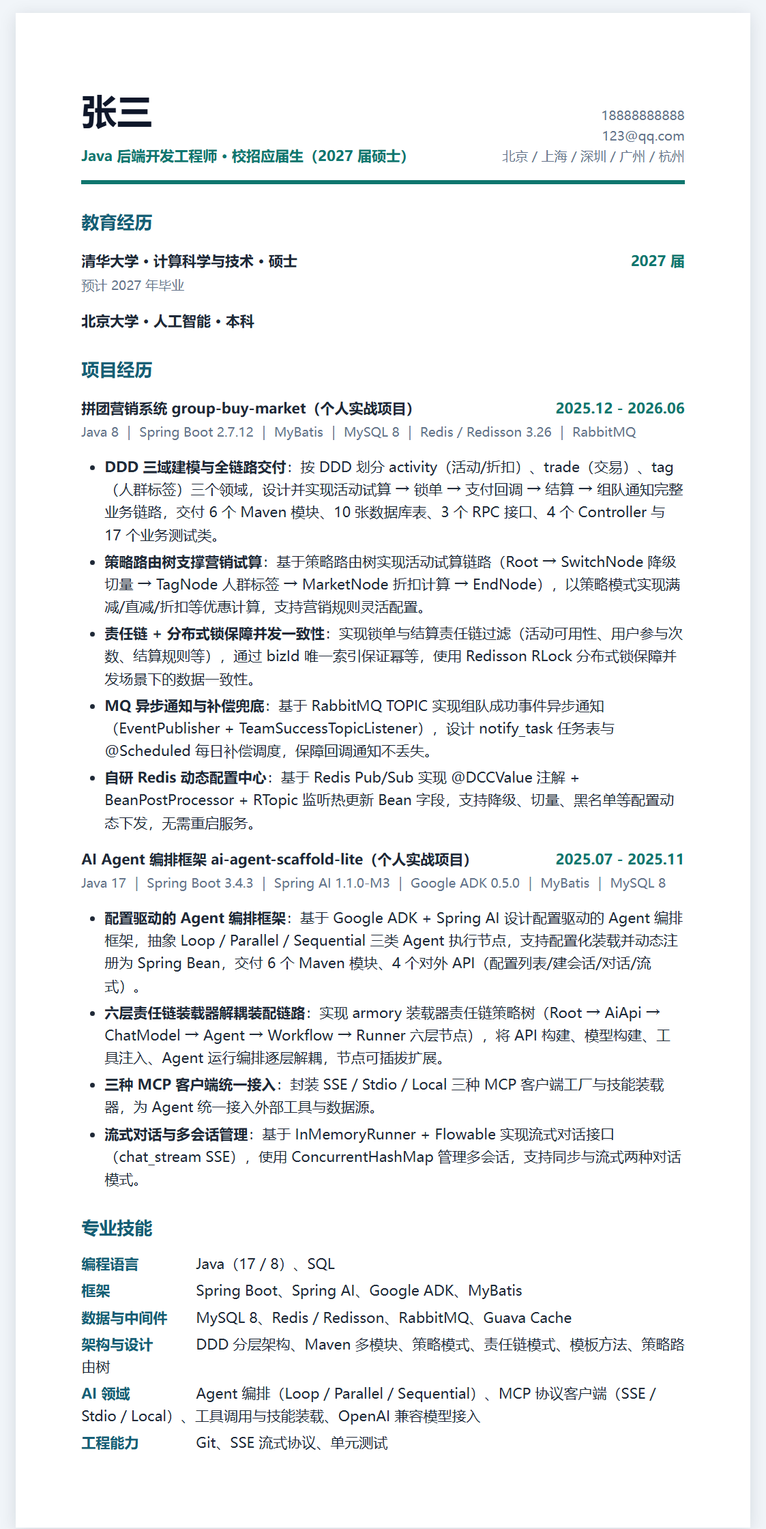
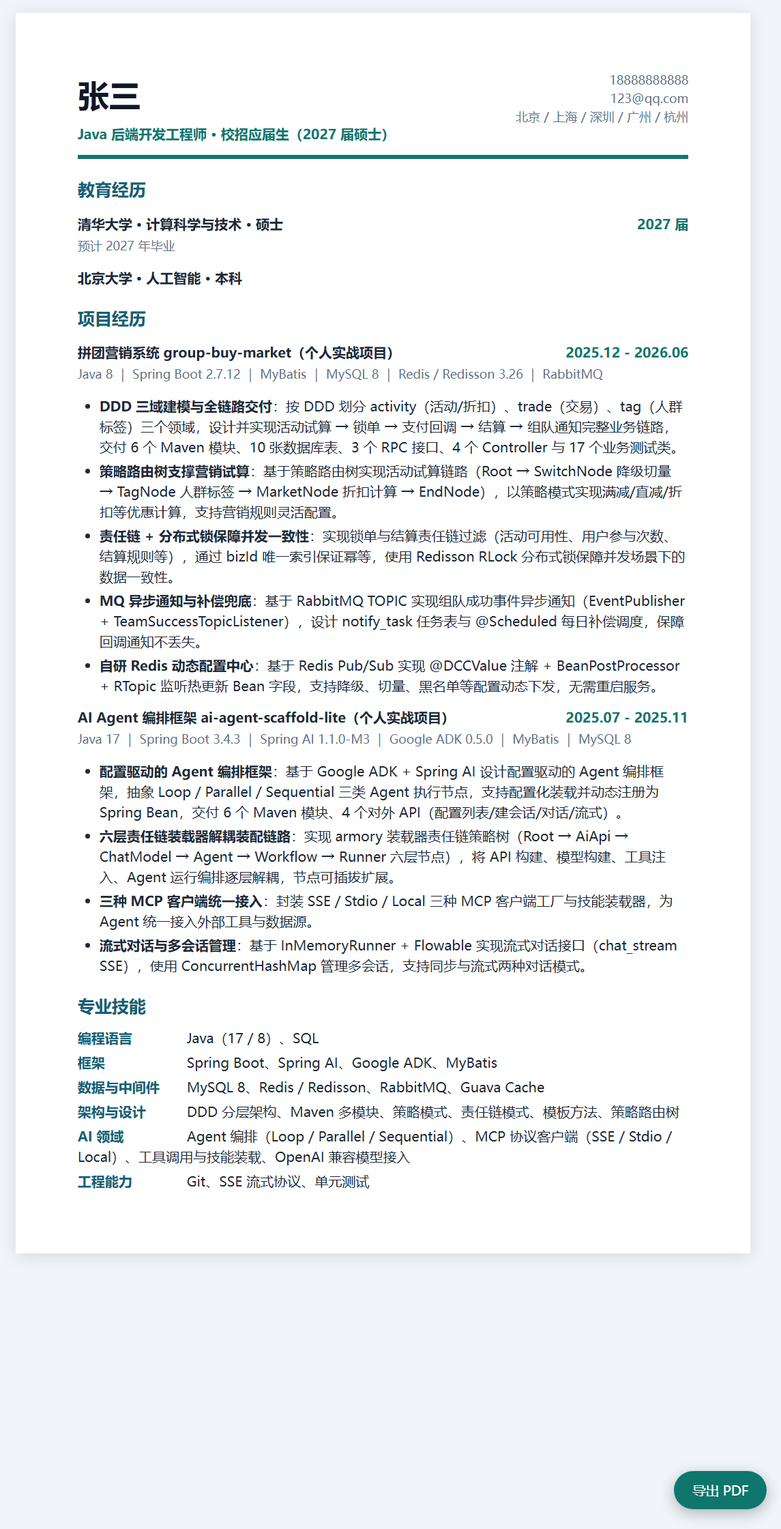
feat: 一键导出 PDF 按钮、页数自动控制与证件照可选流程

diff --git a/examples/demo-java-backend/简历-现代.html b/examples/demo-java-backend/简历-现代.html
@@ -6,19 +6,37 @@
 <title>张三 - Java 后端开发工程师</title>
 <style>
 :root { --ink:#1f2937; --muted:#64748b; --blue:#155e75; --teal:#0f766e; --soft:#f0fdfa; --line:#cbd5e1; }
-* { box-sizing:border-box; } body { margin:0; background:#f1f5f9; color:var(--ink); font:10.5pt/1.58 "Microsoft YaHei","PingFang SC",Arial,sans-serif; }
-.page { max-width:190mm; margin:14pt auto; padding:18mm 17mm; background:#fff; box-shadow:0 2pt 12pt rgba(15,23,42,.12); }
-header { display:flex; justify-content:space-between; gap:18pt; align-items:flex-end; padding:0 0 10pt; border-bottom:3pt solid var(--teal); }
-h1 { margin:0; font-size:26pt; letter-spacing:0; color:#0f172a; }.subtitle { margin:4pt 0 0; color:var(--teal); font-weight:700; }.contact { text-align:right; color:var(--muted); font-size:9.5pt; }
-h2 { margin:17pt 0 8pt; font-size:13pt; color:var(--blue); letter-spacing:0; }.summary { padding:9pt 11pt; background:var(--soft); border-left:3pt solid var(--teal); }.item { margin:10pt 0; break-inside:avoid; }.item-head { display:flex; justify-content:space-between; gap:12pt; font-weight:700; }.date { color:var(--teal); white-space:nowrap; }.stack { margin-top:2pt; color:var(--muted); font-size:9.5pt; }ul { margin:5pt 0; padding-left:17pt; }li { margin:3pt 0; }.skill { margin:3pt 0; }.label { color:var(--blue); font-weight:700; display:inline-block; min-width:84pt; }
-@page { size:A4; margin:14mm 15mm; } @media print { body{background:#fff}.page{margin:0;padding:0;box-shadow:none;max-width:none}.item,h2{break-inside:avoid;page-break-inside:avoid} }
+* { box-sizing:border-box; } body { margin:0; background:#f1f5f9; color:var(--ink); font:10pt/1.5 "Microsoft YaHei","PingFang SC",Arial,sans-serif; }
+.page { max-width:190mm; margin:12pt auto; padding:15mm 16mm; background:#fff; box-shadow:0 2pt 12pt rgba(15,23,42,.12); }
+header { display:flex; justify-content:space-between; gap:16pt; align-items:flex-start; padding:0 0 8pt; border-bottom:3pt solid var(--teal); }
+.head-left h1 { margin:0; font-size:23pt; letter-spacing:0; color:#0f172a; }
+.head-left .subtitle { margin:4pt 0 0; color:var(--teal); font-weight:700; }
+.head-right { display:flex; flex-direction:column; align-items:flex-end; gap:6pt; }
+.photo-img { width:92pt; height:120pt; object-fit:cover; border-radius:4pt; border:1pt solid var(--line); display:block; }
+.contact { text-align:right; color:var(--muted); font-size:9pt; }
+h2 { margin:13pt 0 6pt; font-size:12.5pt; color:var(--blue); letter-spacing:0; }
+.summary { padding:7pt 10pt; background:var(--soft); border-left:3pt solid var(--teal); }
+.item { margin:8pt 0; break-inside:avoid; }
+.item-head { display:flex; justify-content:space-between; gap:12pt; font-weight:700; }
+.date { color:var(--teal); white-space:nowrap; }
+.stack { margin-top:2pt; color:var(--muted); font-size:9pt; }
+ul { margin:4pt 0; padding-left:16pt; } li { margin:2.5pt 0; }
+.skill { margin:3pt 0; } .label { color:var(--blue); font-weight:700; display:inline-block; min-width:80pt; }
+.print-btn { position:fixed; right:22px; bottom:22px; z-index:99; background:var(--teal); color:#fff; border:none; border-radius:999px; padding:10px 18px; font-size:13px; cursor:pointer; font-family:inherit; box-shadow:0 4px 14px rgba(15,23,42,.3); }
+.print-btn:hover { filter:brightness(1.12); }
+@page { size:A4; margin:12mm 14mm; }
+@media print { body{background:#fff}.page{margin:0;padding:0;box-shadow:none;max-width:none}.print-btn{display:none !important}.item,h2{break-inside:avoid;page-break-inside:avoid} }
 </style>
 </head>
 <body>
+<button class="print-btn" onclick="window.print()">导出 PDF</button>
 <main class="page">
   <header>
-    <div><h1>张三</h1><p class="subtitle">Java 后端开发工程师 · 校招应届生（2027 届硕士）</p></div>
-    <div class="contact">18888888888<br>123@qq.com<br>北京 / 上海 / 深圳 / 广州 / 杭州</div>
+    <div class="head-left"><h1>张三</h1><p class="subtitle">Java 后端开发工程师 · 校招应届生（2027 届硕士）</p></div>
+    <div class="head-right">
+      
+      <div class="contact">18888888888<br>123@qq.com<br>北京 / 上海 / 深圳 / 广州 / 杭州</div>
+    </div>
   </header>
   <section><h2>教育经历</h2>
     <div class="item">

diff --git a/assets/html-modern-template.html b/assets/html-modern-template.html
@@ -6,19 +6,37 @@
 <title>{{name}} - {{target_role}}</title>
 <style>
 :root { --ink:#1f2937; --muted:#64748b; --blue:#155e75; --teal:#0f766e; --soft:#f0fdfa; --line:#cbd5e1; }
-* { box-sizing:border-box; } body { margin:0; background:#f1f5f9; color:var(--ink); font:10.5pt/1.58 "Microsoft YaHei","PingFang SC",Arial,sans-serif; }
-.page { max-width:190mm; margin:14pt auto; padding:18mm 17mm; background:#fff; box-shadow:0 2pt 12pt rgba(15,23,42,.12); }
-header { display:flex; justify-content:space-between; gap:18pt; align-items:flex-end; padding:0 0 10pt; border-bottom:3pt solid var(--teal); }
-h1 { margin:0; font-size:26pt; letter-spacing:0; color:#0f172a; }.subtitle { margin:4pt 0 0; color:var(--teal); font-weight:700; }.contact { text-align:right; color:var(--muted); font-size:9.5pt; }
-h2 { margin:17pt 0 8pt; font-size:13pt; color:var(--blue); letter-spacing:0; }.summary { padding:9pt 11pt; background:var(--soft); border-left:3pt solid var(--teal); }.item { margin:10pt 0; break-inside:avoid; }.item-head { display:flex; justify-content:space-between; gap:12pt; font-weight:700; }.date { color:var(--teal); white-space:nowrap; }.stack { margin-top:2pt; color:var(--muted); font-size:9.5pt; }ul { margin:5pt 0; padding-left:17pt; }li { margin:3pt 0; }.skill { margin:3pt 0; }.label { color:var(--blue); font-weight:700; display:inline-block; min-width:84pt; }
-@page { size:A4; margin:14mm 15mm; } @media print { body{background:#fff}.page{margin:0;padding:0;box-shadow:none;max-width:none}.item,h2{break-inside:avoid;page-break-inside:avoid} }
+* { box-sizing:border-box; } body { margin:0; background:#f1f5f9; color:var(--ink); font:10pt/1.5 "Microsoft YaHei","PingFang SC",Arial,sans-serif; }
+.page { max-width:190mm; margin:12pt auto; padding:15mm 16mm; background:#fff; box-shadow:0 2pt 12pt rgba(15,23,42,.12); }
+header { display:flex; justify-content:space-between; gap:16pt; align-items:flex-start; padding:0 0 8pt; border-bottom:3pt solid var(--teal); }
+.head-left h1 { margin:0; font-size:23pt; letter-spacing:0; color:#0f172a; }
+.head-left .subtitle { margin:4pt 0 0; color:var(--teal); font-weight:700; }
+.head-right { display:flex; flex-direction:column; align-items:flex-end; gap:6pt; }
+.photo-img { width:92pt; height:120pt; object-fit:cover; border-radius:4pt; border:1pt solid var(--line); display:block; }
+.contact { text-align:right; color:var(--muted); font-size:9pt; }
+h2 { margin:13pt 0 6pt; font-size:12.5pt; color:var(--blue); letter-spacing:0; }
+.summary { padding:7pt 10pt; background:var(--soft); border-left:3pt solid var(--teal); }
+.item { margin:8pt 0; break-inside:avoid; }
+.item-head { display:flex; justify-content:space-between; gap:12pt; font-weight:700; }
+.date { color:var(--teal); white-space:nowrap; }
+.stack { margin-top:2pt; color:var(--muted); font-size:9pt; }
+ul { margin:4pt 0; padding-left:16pt; } li { margin:2.5pt 0; }
+.skill { margin:3pt 0; } .label { color:var(--blue); font-weight:700; display:inline-block; min-width:80pt; }
+.print-btn { position:fixed; right:22px; bottom:22px; z-index:99; background:var(--teal); color:#fff; border:none; border-radius:999px; padding:10px 18px; font-size:13px; cursor:pointer; font-family:inherit; box-shadow:0 4px 14px rgba(15,23,42,.3); }
+.print-btn:hover { filter:brightness(1.12); }
+@page { size:A4; margin:12mm 14mm; }
+@media print { body{background:#fff}.page{margin:0;padding:0;box-shadow:none;max-width:none}.print-btn{display:none !important}.item,h2{break-inside:avoid;page-break-inside:avoid} }
 </style>
 </head>
 <body>
+<button class="print-btn" onclick="window.print()">导出 PDF</button>
 <main class="page">
   <header>
-    <div><h1>{{name}}</h1><p class="subtitle">{{target_role}}</p></div>
-    <div class="contact">{{phone}}<br>{{email}}<br>{{location}}</div>
+    <div class="head-left"><h1>{{name}}</h1><p class="subtitle">{{target_role}}</p></div>
+    <div class="head-right">
+      {{photo_html}}
+      <div class="contact">{{phone}}<br>{{email}}<br>{{location}}</div>
+    </div>
   </header>
   <section><h2>职业摘要</h2><div class="summary">{{summary}}</div></section>
   <section><h2>实习 / 工作经历</h2>{{experience_items}}</section>

diff --git a/examples/demo-java-backend/简历-ATS.html b/examples/demo-java-backend/简历-ATS.html
@@ -7,23 +7,29 @@
 <style>
 :root { --ink:#111827; --muted:#4b5563; --line:#d1d5db; --accent:#1d4ed8; }
 * { box-sizing:border-box; }
-body { margin:0; background:#fff; color:var(--ink); font:10.5pt/1.58 "Microsoft YaHei","PingFang SC",Arial,sans-serif; }
+body { margin:0; background:#fff; color:var(--ink); font:10pt/1.5 "Microsoft YaHei","PingFang SC",Arial,sans-serif; }
 .page { width:100%; max-width:180mm; margin:0 auto; }
-h1 { margin:0; font-size:23pt; letter-spacing:0; }
-h2 { margin:16pt 0 7pt; padding-bottom:3pt; border-bottom:1pt solid var(--accent); font-size:13pt; color:var(--accent); }
-p { margin:4pt 0; }.muted { color:var(--muted); }.header { border-bottom:2pt solid var(--accent); padding-bottom:8pt; }
+h1 { margin:0; font-size:21pt; letter-spacing:0; }
+h2 { margin:13pt 0 6pt; padding-bottom:3pt; border-bottom:1pt solid var(--accent); font-size:12.5pt; color:var(--accent); }
+p { margin:4pt 0; }.muted { color:var(--muted); }.header { border-bottom:2pt solid var(--accent); padding-bottom:7pt; }
 .meta { margin-top:3pt; color:var(--muted); }.role { margin-top:6pt; font-weight:700; }
-.item { margin:9pt 0; break-inside:avoid; }.item-title { font-weight:700; }.date { float:right; color:var(--muted); }
-ul { margin:4pt 0 0; padding-left:18pt; }li { margin:3pt 0; }.stack { color:var(--muted); font-size:9.5pt; }
-.skills p { margin:3pt 0; }.label { display:inline-block; min-width:80pt; font-weight:700; }
-@page { size:A4; margin:14mm 15mm; }
-@media print { .page{max-width:none}.item,h2{break-inside:avoid;page-break-inside:avoid} }
+.photo-wrap { margin:6pt 0 0; }
+.photo-img { width:72pt; height:96pt; object-fit:cover; border:1pt solid var(--line); display:block; }
+.item { margin:7pt 0; break-inside:avoid; }.item-title { font-weight:700; }.date { float:right; color:var(--muted); }
+ul { margin:4pt 0 0; padding-left:18pt; }li { margin:2.5pt 0; }.stack { color:var(--muted); font-size:9pt; }
+.skills p { margin:3pt 0; }.label { display:inline-block; min-width:76pt; font-weight:700; }
+.print-btn { position:fixed; right:22px; bottom:22px; z-index:99; background:var(--accent); color:#fff; border:none; border-radius:999px; padding:10px 18px; font-size:13px; cursor:pointer; font-family:inherit; box-shadow:0 4px 14px rgba(15,23,42,.3); }
+.print-btn:hover { filter:brightness(1.12); }
+@page { size:A4; margin:12mm 14mm; }
+@media print { .page{max-width:none}.item,h2{break-inside:avoid;page-break-inside:avoid}.print-btn{display:none !important} }
 </style>
 </head>
 <body>
+<button class="print-btn" onclick="window.print()">导出 PDF</button>
 <main class="page">
   <header class="header">
     <h1>张三</h1>
+    
     <p class="meta">18888888888 ｜ 123@qq.com ｜ 北京 / 上海 / 深圳 / 广州 / 杭州</p>
     <p class="role">求职意向：Java 后端开发工程师（校招应届生，2027 届硕士）</p>
   </header>

diff --git a/assets/html-ats-single-column-template.html b/assets/html-ats-single-column-template.html
@@ -7,23 +7,29 @@
 <style>
 :root { --ink:#111827; --muted:#4b5563; --line:#d1d5db; --accent:#1d4ed8; }
 * { box-sizing:border-box; }
-body { margin:0; background:#fff; color:var(--ink); font:10.5pt/1.58 "Microsoft YaHei","PingFang SC",Arial,sans-serif; }
+body { margin:0; background:#fff; color:var(--ink); font:10pt/1.5 "Microsoft YaHei","PingFang SC",Arial,sans-serif; }
 .page { width:100%; max-width:180mm; margin:0 auto; }
-h1 { margin:0; font-size:23pt; letter-spacing:0; }
-h2 { margin:16pt 0 7pt; padding-bottom:3pt; border-bottom:1pt solid var(--accent); font-size:13pt; color:var(--accent); }
-p { margin:4pt 0; }.muted { color:var(--muted); }.header { border-bottom:2pt solid var(--accent); padding-bottom:8pt; }
+h1 { margin:0; font-size:21pt; letter-spacing:0; }
+h2 { margin:13pt 0 6pt; padding-bottom:3pt; border-bottom:1pt solid var(--accent); font-size:12.5pt; color:var(--accent); }
+p { margin:4pt 0; }.muted { color:var(--muted); }.header { border-bottom:2pt solid var(--accent); padding-bottom:7pt; }
 .meta { margin-top:3pt; color:var(--muted); }.role { margin-top:6pt; font-weight:700; }
-.item { margin:9pt 0; break-inside:avoid; }.item-title { font-weight:700; }.date { float:right; color:var(--muted); }
-ul { margin:4pt 0 0; padding-left:18pt; }li { margin:3pt 0; }.stack { color:var(--muted); font-size:9.5pt; }
-.skills p { margin:3pt 0; }.label { display:inline-block; min-width:80pt; font-weight:700; }
-@page { size:A4; margin:14mm 15mm; }
-@media print { .page{max-width:none}.item,h2{break-inside:avoid;page-break-inside:avoid} }
+.photo-wrap { margin:6pt 0 0; }
+.photo-img { width:72pt; height:96pt; object-fit:cover; border:1pt solid var(--line); display:block; }
+.item { margin:7pt 0; break-inside:avoid; }.item-title { font-weight:700; }.date { float:right; color:var(--muted); }
+ul { margin:4pt 0 0; padding-left:18pt; }li { margin:2.5pt 0; }.stack { color:var(--muted); font-size:9pt; }
+.skills p { margin:3pt 0; }.label { display:inline-block; min-width:76pt; font-weight:700; }
+.print-btn { position:fixed; right:22px; bottom:22px; z-index:99; background:var(--accent); color:#fff; border:none; border-radius:999px; padding:10px 18px; font-size:13px; cursor:pointer; font-family:inherit; box-shadow:0 4px 14px rgba(15,23,42,.3); }
+.print-btn:hover { filter:brightness(1.12); }
+@page { size:A4; margin:12mm 14mm; }
+@media print { .page{max-width:none}.item,h2{break-inside:avoid;page-break-inside:avoid}.print-btn{display:none !important} }
 </style>
 </head>
 <body>
+<button class="print-btn" onclick="window.print()">导出 PDF</button>
 <main class="page">
   <header class="header">
     <h1>{{name}}</h1>
+    {{photo_html}}
     <p class="meta">{{phone}} ｜ {{email}} ｜ {{location}}</p>
     <p class="role">求职意向：{{target_role}}</p>
   </header>

diff --git a/scripts/check_resume_pages.py b/scripts/check_resume_pages.py
@@ -1,0 +1,109 @@
+#!/usr/bin/env python3
+"""Check the page count of an HTML resume when printed to A4 PDF.
+
+Uses a local Chrome/Edge (headless) to print the HTML to PDF, then counts
+pages. Falls back gracefully with clear messages if no browser is found.
+
+Usage:
+    python check_resume_pages.py <resume.html> [--browser PATH]
+"""
+
+from __future__ import annotations
+
+import argparse
+import os
+import re
+import shutil
+import subprocess
+import sys
+import tempfile
+from pathlib import Path
+
+# Common browser locations per OS
+BROWSER_CANDIDATES = [
+    # Windows (most likely)
+    r"C:\Program Files\Google\Chrome\Application\chrome.exe",
+    r"C:\Program Files (x86)\Google\Chrome\Application\chrome.exe",
+    r"C:\Program Files\Microsoft\Edge\Application\msedge.exe",
+    r"C:\Program Files (x86)\Microsoft\Edge\Application\msedge.exe",
+    # macOS
+    "/Applications/Google Chrome.app/Contents/MacOS/Google Chrome",
+    "/Applications/Microsoft Edge.app/Contents/MacOS/Microsoft Edge",
+    # Linux
+    "/usr/bin/google-chrome",
+    "/usr/bin/google-chrome-stable",
+    "/usr/bin/chromium",
+    "/usr/bin/chromium-browser",
+    "/usr/bin/microsoft-edge",
+]
+
+
+def find_browser(explicit: str | None) -> str | None:
+    if explicit:
+        if os.path.isfile(explicit):
+            return explicit
+        return None
+    for candidate in BROWSER_CANDIDATES:
+        if os.path.isfile(candidate):
+            return candidate
+    for name in ("chrome", "google-chrome", "chromium", "msedge", "microsoft-edge"):
+        path = shutil.which(name)
+        if path:
+            return path
+    return None
+
+
+def count_pages(pdf_path: str) -> int:
+    """Count pages by scanning /Type /Page objects (skips /Pages parent)."""
+    with open(pdf_path, "rb") as f:
+        data = f.read()
+    # Chromium PDFs store objects uncompressed in predictable order;
+    # a robust-enough heuristic: count '/Type /Page' that is NOT '/Type /Pages'.
+    pages = len(re.findall(rb"/Type\s*/Page[^s]", data))
+    return max(pages, 1)
+
+
+def main() -> None:
+    parser = argparse.ArgumentParser(description="Count A4 print pages of an HTML resume.")
+    parser.add_argument("html_file", type=Path, help="Path to the resume HTML file")
+    parser.add_argument("--browser", default=None, help="Explicit path to Chrome/Edge executable")
+    args = parser.parse_args()
+
+    html = args.html_file
+    if not html.is_file():
+        raise SystemExit(f"HTML file not found: {html}")
+
+    browser = find_browser(args.browser)
+    if not browser:
+        print("WARN: No Chrome/Edge found. Open the HTML in a browser and press Ctrl+P to check page count manually.")
+        print("PAGES: unknown")
+        raise SystemExit(2)
+
+    uri = html.resolve().as_uri()
+    with tempfile.TemporaryDirectory() as tmp:
+        pdf = os.path.join(tmp, "resume.pdf")
+        cmd = [
+            browser,
+            "--headless=new",
+            "--disable-gpu",
+            "--no-pdf-header-footer",
+            f"--print-to-pdf={pdf}",
+            "--print-to-pdf-no-header",
+            uri,
+        ]
+        result = subprocess.run(cmd, capture_output=True, text=True, timeout=120)
+        if result.returncode != 0 or not os.path.isfile(pdf):
+            print(f"WARN: Browser print failed: {result.stderr.strip() or result.stdout.strip()}")
+            print("PAGES: unknown")
+            raise SystemExit(2)
+
+        pages = count_pages(pdf)
+        print(f"PAGES: {pages}")
+        print(f"PDF: {pdf}")
+        if pages > 2:
+            print("HINT: Over 2 pages. Options: (A) compress spacing/font, "
+                  "(B) ask user: increase pages (max 3) or trim content.")
+
+
+if __name__ == "__main__":
+    main()

diff --git a/SKILL.md b/SKILL.md
@@ -46,17 +46,21 @@ agent_created: true
 4. 对阻塞问题先提问；非阻塞项按照默认值执行并在报告中声明。
 5. 读取 `references/technical-resume-principles.md`、`references/ats-and-pdf-checklist.md` 与 `references/chinese-english-typesetting.md`，生成精修稿。
 6. 输出 Markdown、ATS HTML、现代 HTML 与评估报告；执行 `scripts/validate_resume_output.py` 校验。
+7. 确认证件照需求：询问用户是否放置证件照（现代版默认放右上角、ATS 版默认不放）；用户提供照片路径时，将图片 base64 内嵌进 HTML 的 `{{photo_html}}` 占位；用户选择不放或未提供路径时输出空占位。
+8. 确认页数约束：生成后检查打印页数（可在浏览器打开 HTML 按 Ctrl+P 预览或运行 `scripts/check_resume_pages.py`），若超过 2 页，先压缩字体/行距（见「页数控制」），仍超页时向用户提供选择：A. 增加页数（最多 3 页）B. 压缩内容（裁剪次要 bullet 或合并短条目），按用户选择调整后重新输出。
 
 ### 场景 B：从工作区生成简历
 
 触发：用户要求根据指定工作区、项目、实习记录、Git 仓库、文档或已有材料生成技术岗简历。
 
 1. 先确认工作区路径；未给出目标岗位时使用通用技术岗默认值，未给出城市/页数/模板时采用中文、2 页上限、双 HTML 模板并在交付中声明。
-2. 运行 `scripts/scan_workspace_manifest.py` 生成只读清单；优先读取旧简历、README、设计文档、复盘、项目文档、论文、奖项与 Git 元数据。
-3. 按项目/组织/时间建立证据卡片。每张卡片至少包含：问题、个人动作、技术方案、结果、指标、ownership、来源文件、原文摘录、置信度。
-4. 识别重复项目、同一成果不同版本、团队与个人成果冲突、无证据的技术关键词；将冲突列入 `open_questions`。
-5. 确认问题后，按目标岗位选择相应 `references/role-profiles/` 指南，构建 Resume IR 并生成交付物。
-6. 在评估报告中增加“证据覆盖表”和“未采用材料清单”。
+2. 询问证件照：是否需要放置证件照（默认现代版放、ATS 版不放）；如需，请用户提供照片文件路径（jpg/png），用于 base64 内嵌。
+3. 运行 `scripts/scan_workspace_manifest.py` 生成只读清单；优先读取旧简历、README、设计文档、复盘、项目文档、论文、奖项与 Git 元数据。
+4. 按项目/组织/时间建立证据卡片。每张卡片至少包含：问题、个人动作、技术方案、结果、指标、ownership、来源文件、原文摘录、置信度。
+5. 识别重复项目、同一成果不同版本、团队与个人成果冲突、无证据的技术关键词；将冲突列入 `open_questions`。
+6. 确认问题后，按目标岗位选择相应 `references/role-profiles/` 指南，构建 Resume IR 并生成交付物。
+7. 在评估报告中增加“证据覆盖表”和“未采用材料清单”。
+8. 执行页数检查与证件照渲染（同场景 A 第 7、8 步）。
 
 ### 场景 C：增量更新简历
 
@@ -97,12 +101,27 @@ versions:
 ## 写作、评分与 ATS 规则
 
 - 将 bullet 写成“强动作动词 + 个人动作 + 技术/方法 + 可验证结果”；不要以“负责/参与/熟悉”开头，除非个人贡献确实只能表述为参与。
-- 项目经历（及长 bullet 列表）中，每条 bullet 句首加一个简练加粗总结短语（如 `**DDD 三域建模与全链路交付**：正文…`），格式为“加粗总结：动作 + 技术 + 结果”。总结短语控制在 12 字以内、以名词短语或短动词短语为主，起到快速扫描作用，不得重复正文细节或引入新事实；同一项目内各条总结短语保持句式平行。Markdown 与两份 HTML 中同步实现（HTML 用 `<strong>`），Resume IR 中对应字段为 bullet 的 `highlight`。
+- 项目经历（及长 bullet 列表）中，每条 bullet 句首加一个简练加粗总结短语（如 `**DDD 三域建模与全链路交付**：正文…`），格式为“加粗总结：动作 + 技术 + 结果”。总结短语控制在 12 字以内、以名词短语或短动词短语为主，起到快速扫描作用，不得重复正文细节或引入新事实；同一项目内各条总结短语保持句���平行。Markdown 与两份 HTML 中同步实现（HTML 用 `<strong>`），Resume IR 中对应字段为 bullet 的 `highlight`。
 - 按岗位相关性排列栏目与项目；同一栏目按倒序时间线排列。初级岗位优先 1 页，经历充足时最多 2 页。
 - 将技术技能按类别分组，并只保留可解释、与岗位相关的技术；不要堆砌关键词或教程级技术。
 - 量化优先覆盖吞吐/数据量、性能、稳定性、成本、效率、质量、交付范围和业务影响。没有数字时写可验证的范围、服务链路、版本或覆盖对象。
 - 使用标准栏目名、单列 ATS 结构、可复制文本、清晰标题和倒序时间线。避免关键文字放在图片、文本框、复杂表格或多栏布局中。
 - 评分采用 100 分：内容质量 30、结构与排版 25、语言与语法 20、ATS 优化 15、影响力与印象 10。报告必须包含总分/等级、五维明细、Top 3 优势、优先级改进项、Before→After、5 步行动计划与回检分数。
+
+## 页数控制
+
+目标：HTML 在 A4 打印下默认不超过 2 页，尽量在 2 页内完整呈现内容。
+
+- 模板已内置紧凑排版：正文 10pt、行高 1.5、栏目间距 13pt/6pt、bullet 间距 2.5pt。生成简历时**不得自行放大模板字号**；如需调整，只能往更紧凑方向（如正文 9.5pt、行高 1.45）。
+- 生成后必须做页数检查：用浏览器打开 HTML 按 Ctrl+P 预览页数，或运行 `scripts/check_resume_pages.py <html-file>`（自动调用系统 Chrome headless 打印并统计页数，支持 Chrome/Edge 路径探测）。
+- 若超过 2 页，依次尝试：① 压缩间距/字号（保持美观前提下）② 让用户选择「增加页数（最多 3 页）」或「压缩内容（裁剪次要 bullet、合并短条目）」，按用户选择执行并重新输出。
+- 页数结论写入评估报告「页数检查」小节，并注明所用调整手段。
+
+## 证件照（可选）
+
+- 生成前询问用户是否放置证件照；默认策略：现代版放（右上角）、ATS 版不放（保持纯文本 ATS 兼容）。
+- 用户提供照片路径时：用 base64 编码（png/jpg，建议压缩至 ≤200 KB、3:4 或 2:3 比例）填充模板 `{{photo_html}}`；未提供或选择不放时输出空字符串。
+- 证件照不承载关键信息，ATS 版不放照片以保兼容；现代版照片区域样式见 `assets/html-modern-template.html`。
 
 ## 资源选择
 
@@ -121,5 +140,7 @@ versions:
 1. 运行 `scripts/validate_resume_output.py <delivery-directory>`。
 2. 回溯每个数字、公司、项目、岗位、时间和技术关键词到 Resume IR 或用户明确确认内容。
 3. 检查 Markdown、两份 HTML、评估报告、IR 和来源清单是否齐全；增量场景再检查变更报告。
-4. 检查 HTML 的 A4 打印分页、截断、乱码、文本可复制性与 ATS 单列结构。
-5. 在最终回复中说明：输出文件、基线/回检分数、待确认事实、默认值和下一步可执行动作。
+4. 检查 HTML 的 A4 打印分页、截断、乱码、文本可复制性与 ATS 单列结构；确认两份 HTML 右上角「导出 PDF」按钮存在且打印时隐藏（`@media print` 下 `display:none`）。
+5. 检查证件照：若用户要求放置，确认照片已在现代版渲染且不遮挡文字、不超页。
+6. 运行页数检查（`scripts/check_resume_pages.py` 或浏览器 Ctrl+P 预览），超过 2 页时按「页数控制」节处理并在报告中记录。
+7. 在最终回复中说明：输出文件、基线/回检分数、待确认事实、默认值、页数结论和下一步可执行动作。

diff --git a/references/ats-and-pdf-checklist.md b/references/ats-and-pdf-checklist.md
@@ -21,6 +21,14 @@
 - 检查最后一页没有孤立标题、单行 bullet 或大面积空白。
 - 检查没有文字重叠、截断、乱码、横向溢出或链接不可读。
 - 检查导出 PDF 后能搜索姓名、公司、岗位和核心技术词。
+- 两份 HTML 必须内置「导出 PDF」按钮（`window.print()`，右下角悬浮），打印时隐藏（`@media print { .print-btn { display:none } }`）；按钮为可点击文本，不承载简历关键信息。
+- 打印页数检查：运行 `scripts/check_resume_pages.py <html>`（自动探测系统 Chrome/Edge 并统计 A4 打印页数），或让用户在浏览器按 Ctrl+P 预览；默认目标 ≤ 2 页，超页按「页数控制」处理（先压缩字号/间距，再由用户选择加页或裁剪内容）。
+
+## 证件照（可选）
+
+- 现代版默认右上角放置证件照（`{{photo_html}}` 占位，base64 内嵌，建议 ≤200 KB、3:4 比例）；ATS 版默认不放，保持纯文本兼容。
+- 照片不承载关键信息（姓名/联系方式/经历均为文本），不得依赖图片传达简历事实。
+- 照片不得遮挡文字、不得导致分页异常；打印时正常显示。
 
 ## 交付前最低标准
 
